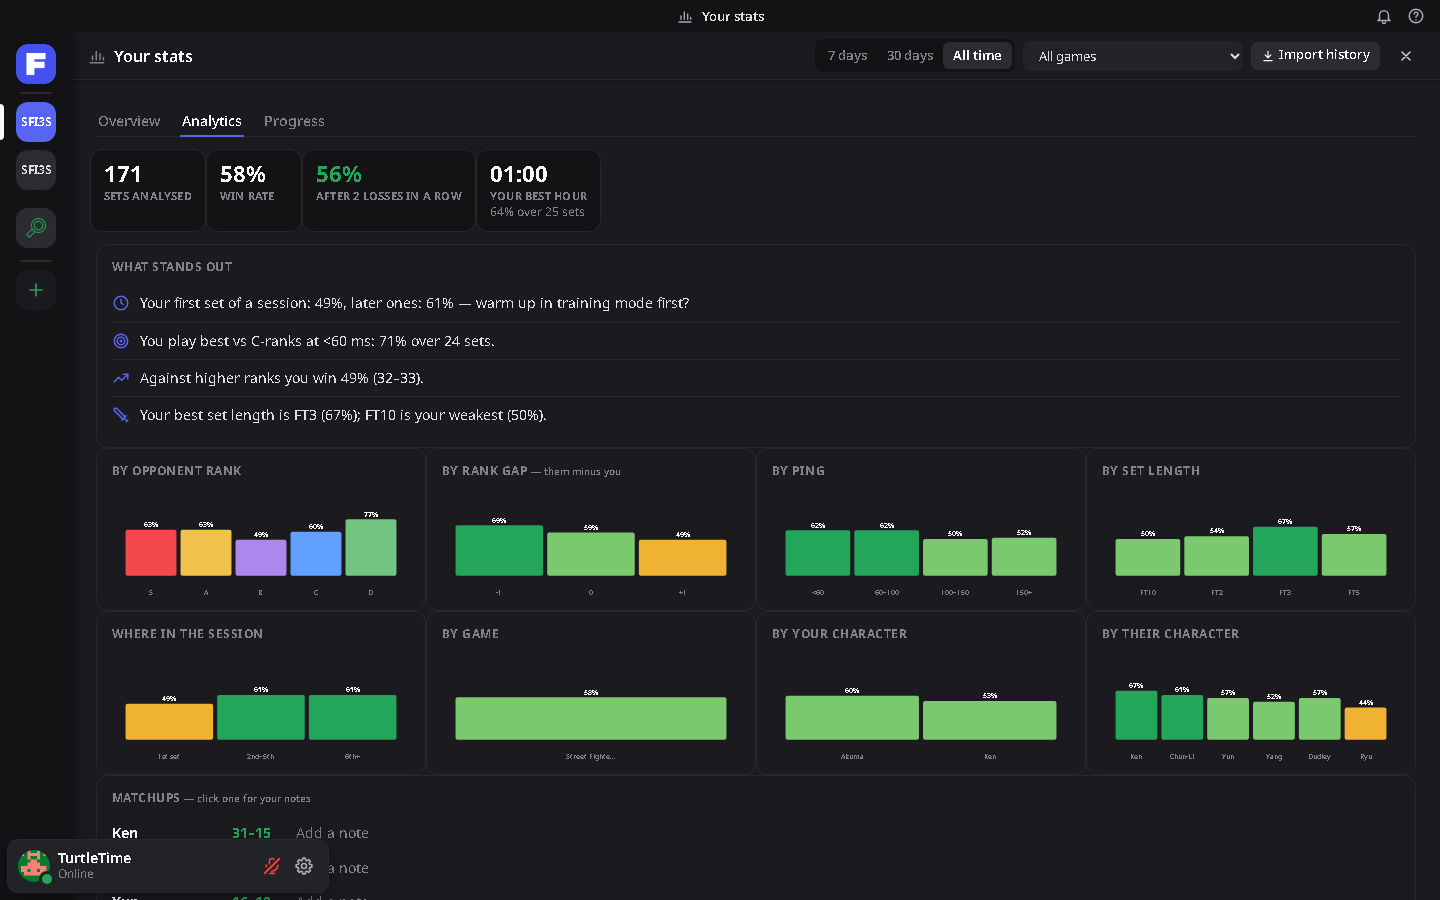
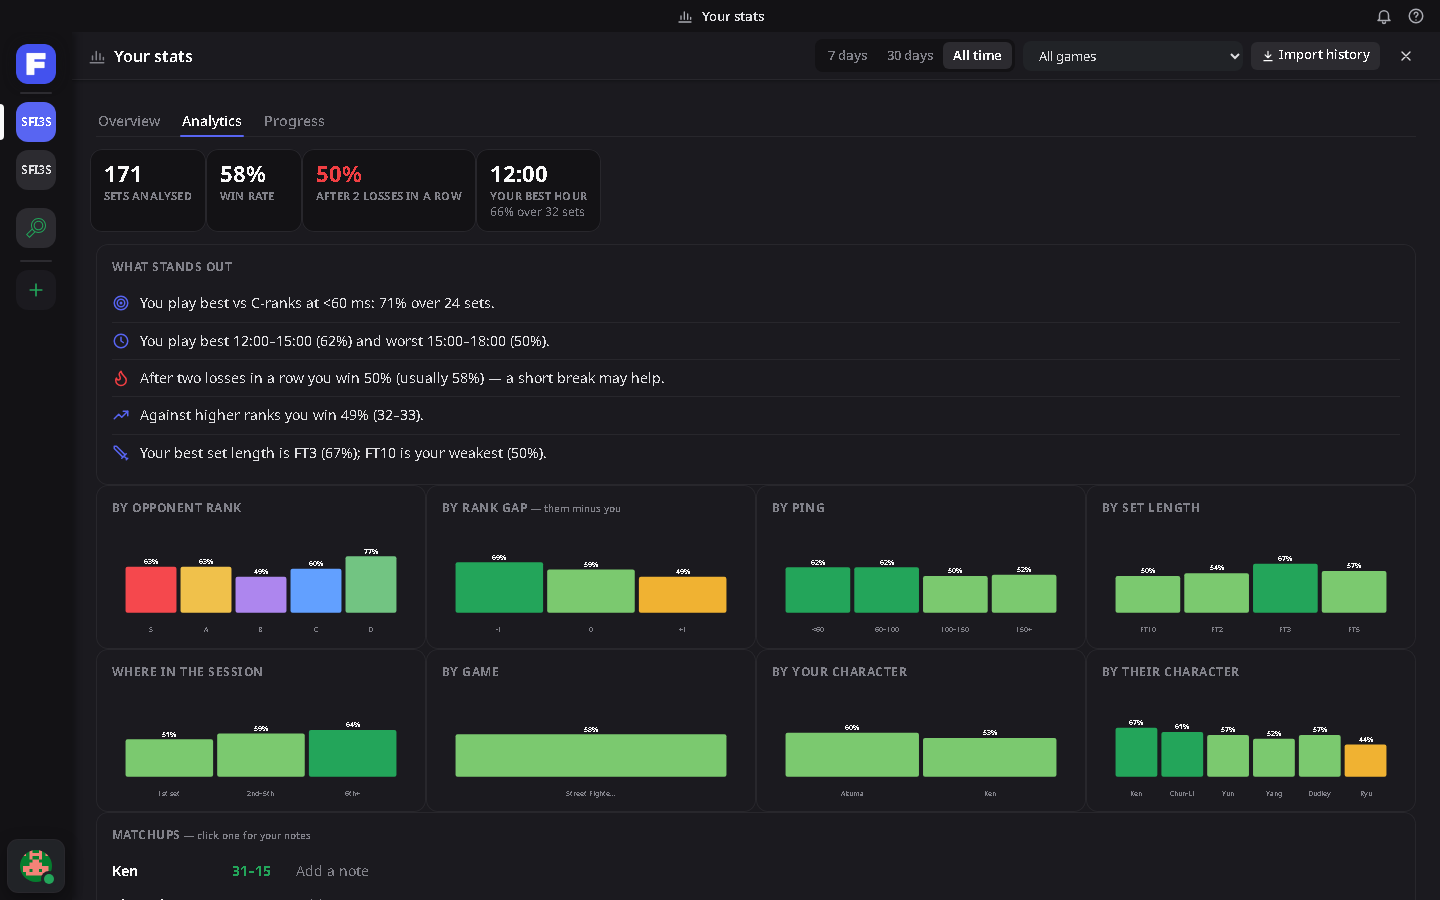
Fightcord 3.4.1

diff --git a/src/layout3.js b/src/layout3.js
@@ -192,13 +192,21 @@ function update() {
     // over the rail + member list (list on the left), or over the list (on the right)
     const list = document.querySelector('.channelWrapper:not([style*="none"]) .usersListToolbar');
     const lw = list && list.offsetWidth ? list.offsetWidth : 0;
+    // a full page over the channel (a private lobby, Stats, the game hub) hides that list: the panel goes to
+    // the foot of the page's own left column when it has one ([data-l3-dock], like Discord's channel list),
+    // else it's just your avatar at the foot of the rail -- never on top of the page's message box
+    const page = [...document.querySelectorAll('.fc-page:not(.fc-out)')].filter(p => p.offsetWidth).pop();
+    const dock = page && page.querySelector('[data-l3-dock]');
+    const dr = dock && dock.offsetWidth ? dock.getBoundingClientRect() : null;
     // no side column under it (Fightcade's start page, Patreon): just your avatar, at the foot of the rail
-    const side = lw > 0 || html.classList.contains('fcd-browse');
+    const side = page ? !!dr : lw > 0 || html.classList.contains('fcd-browse');
     html.classList.toggle('l3-panel-mini', !side);
-    const box = side ? panelBox({ rail: 72, list: lw, vw: window.innerWidth, listLeft: html.classList.contains('fcm-left') }) : { left: 8, width: 56 };
+    html.classList.toggle('l3-docked', !!dr);
+    const box = dr ? { left: Math.round(dr.left) + 8, width: Math.round(dr.width) - 16 }
+        : side ? panelBox({ rail: 72, list: lw, vw: window.innerWidth, listLeft: html.classList.contains('fcm-left') }) : { left: 8, width: 56 };
     if (panel.style.left !== box.left + 'px') panel.style.left = box.left + 'px';
     if (panel.style.width !== box.width + 'px') panel.style.width = box.width + 'px';
-    html.classList.toggle('l3-panel-right', box.left > 72);
+    html.classList.toggle('l3-panel-right', !dr && box.left > 72);
     // Fightcade's own settings / notifications cover the window (like Discord's settings): the panel steps aside
     html.classList.toggle('l3-covered', !!document.querySelector('.settingsWrapper.active, .notificationsWrapper.active'));
 }
@@ -253,6 +261,8 @@ html.l3-panel #l3Panel { position: fixed; bottom: 8px; left: 8px; height: 52px; 
 @keyframes l3Up { from { opacity: 0; transform: translateY(12px); } to { opacity: 1; transform: none; } }
 html.l3-panel.l3-covered #l3Panel { opacity: 0; transform: translateY(12px); pointer-events: none; transition: opacity var(--fc-fast) ease, transform var(--fc-med) var(--fc-ease); }
 html.l3-panel #l3Panel { transition: opacity var(--fc-fast) ease, transform var(--fc-med) var(--fc-ease); }
+/* docked at the foot of a page's left column: that column keeps room for it */
+html.l3-panel.l3-docked .fc-page [data-l3-dock] { padding-bottom: 68px; box-sizing: border-box; }
 #l3Panel .l3Me { flex: 1 1 auto; min-width: 0; display: flex; align-items: center; height: 40px; padding: 0 6px 0 4px; margin-right: 4px; border-radius: 8px; cursor: pointer;
     transition: background-color var(--fc-fast) ease; }
 #l3Panel .l3Me:hover { background: rgba(255,255,255,.06); }

diff --git a/src/lobbies.js b/src/lobbies.js
@@ -1922,7 +1922,7 @@ function renderPage(first) {
     if (!L) { view.page.close(); return; }
     const body = view.page.body;
     if (!body.querySelector('.fclbWrap')) {
-        body.innerHTML = `<div class="fclbWrap"><div class="fclbSide"></div><div class="fclbMain"><div class="fclbTop"></div><div class="fclbLog"></div><div class="fclbPane"></div>` +
+        body.innerHTML = `<div class="fclbWrap"><div class="fclbSide" data-l3-dock="1"></div><div class="fclbMain"><div class="fclbTop"></div><div class="fclbLog"></div><div class="fclbPane"></div>` +
             `<div class="fclbReply"></div><div class="fclbFoot"></div><div class="fclbHl"></div><div class="fclbTb"></div></div><div class="fclbMem"></div></div>`;
     }
     const set = (sel, html) => { const el = body.querySelector(sel); fc.ui.setHtml(el, html); return el; };

diff --git a/src/dev-harness/demo.js b/src/dev-harness/demo.js
@@ -156,7 +156,7 @@
         }
         files['./rank-history.json'] = JSON.stringify({ v: 1, points });
         // the settings screen: the released version, and module files to list (empty stand-ins)
-        files['./fightcord.json'] = JSON.stringify({ version: '3.4.0', off: ['snapshot.js'] });
+        files['./fightcord.json'] = JSON.stringify({ version: '3.4.1', off: ['snapshot.js'] });
         ['fightcord-core.js', 'discord-theme.js', 'branding.js', 'discover.js', 'chat-extras.js', 'translate.js', 'emoji.js', 'fontstyle.js',
             'member-list.js', 'scout.js', 'challenge-filters.js', 'match-screens.js', 'stats.js', 'analytics.js', 'progress.js', 'goals.js',
             'feed.js', 'welcome.js', 'friends.js', 'notes.js', 'challenge-card.js', 'channel-banner.js', 'hover-cards.js', 'profile-card.js',

diff --git a/installer/FightcordSetup.cs b/installer/FightcordSetup.cs
@@ -27,8 +27,8 @@ using System.Windows.Forms;
 
 [assembly: AssemblyTitle("Fightcord Setup")]
 [assembly: AssemblyProduct("Fightcord")]
-[assembly: AssemblyVersion("3.4.0.0")]
-[assembly: AssemblyFileVersion("3.4.0.0")]
+[assembly: AssemblyVersion("3.4.1.0")]
+[assembly: AssemblyFileVersion("3.4.1.0")]
 
 namespace Fightcord
 {
@@ -510,7 +510,7 @@ namespace Fightcord
 
     class SetupForm : Form
     {
-        const string Version = "3.4.0";
+        const string Version = "3.4.1";
         const string ReleasesUrl = "https://github.com/JillTheStingray/fightcord/releases/latest";
         const string Marker = "/* Fightcord loader */";
 

diff --git a/CHANGELOG.md b/CHANGELOG.md
@@ -1,5 +1,12 @@
 # Changelog
 
+## 3.4.1
+
+- **Your panel no longer covers a page's message box:** with the member list on the right, your panel
+  (avatar, name, mute, settings) sat on top of a private lobby's message box. In a lobby it now sits at
+  the foot of the lobby's left column, like on Discord. On other full pages (Stats, the game hub) it
+  shrinks to your avatar at the foot of the left rail.
+
 ## 3.4.0
 
 - **Pictures that upload reliably:**
